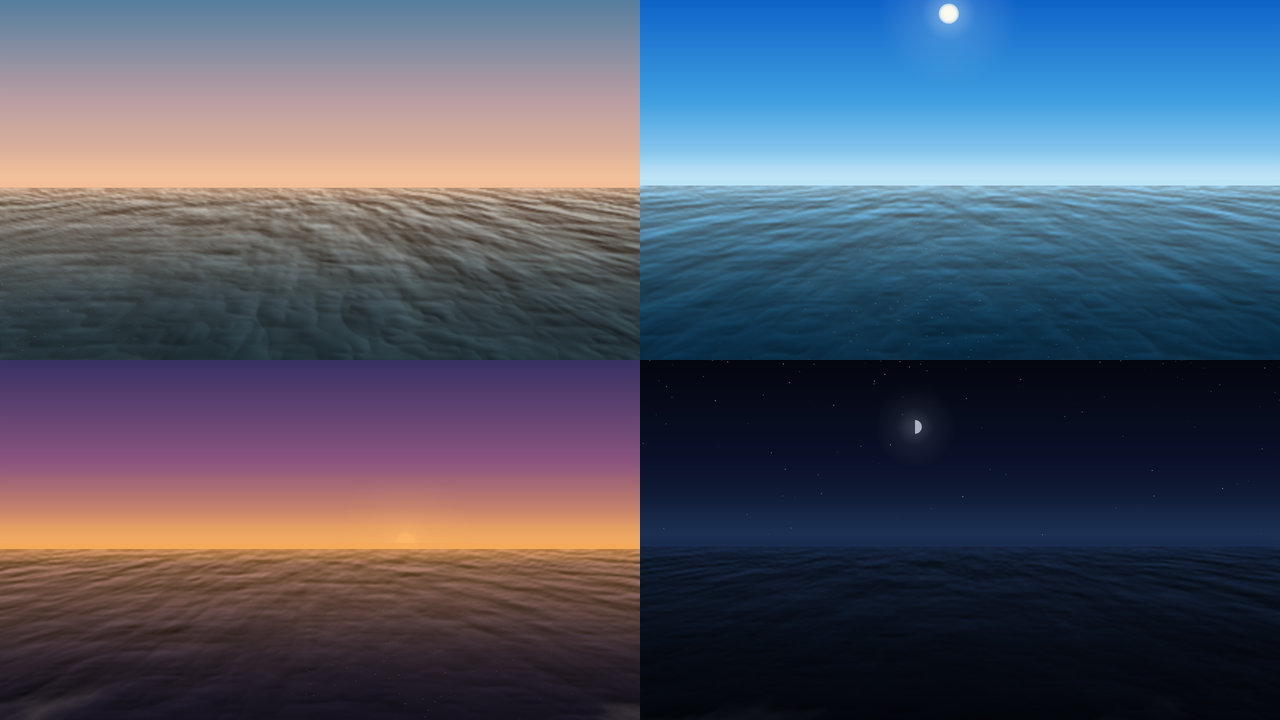
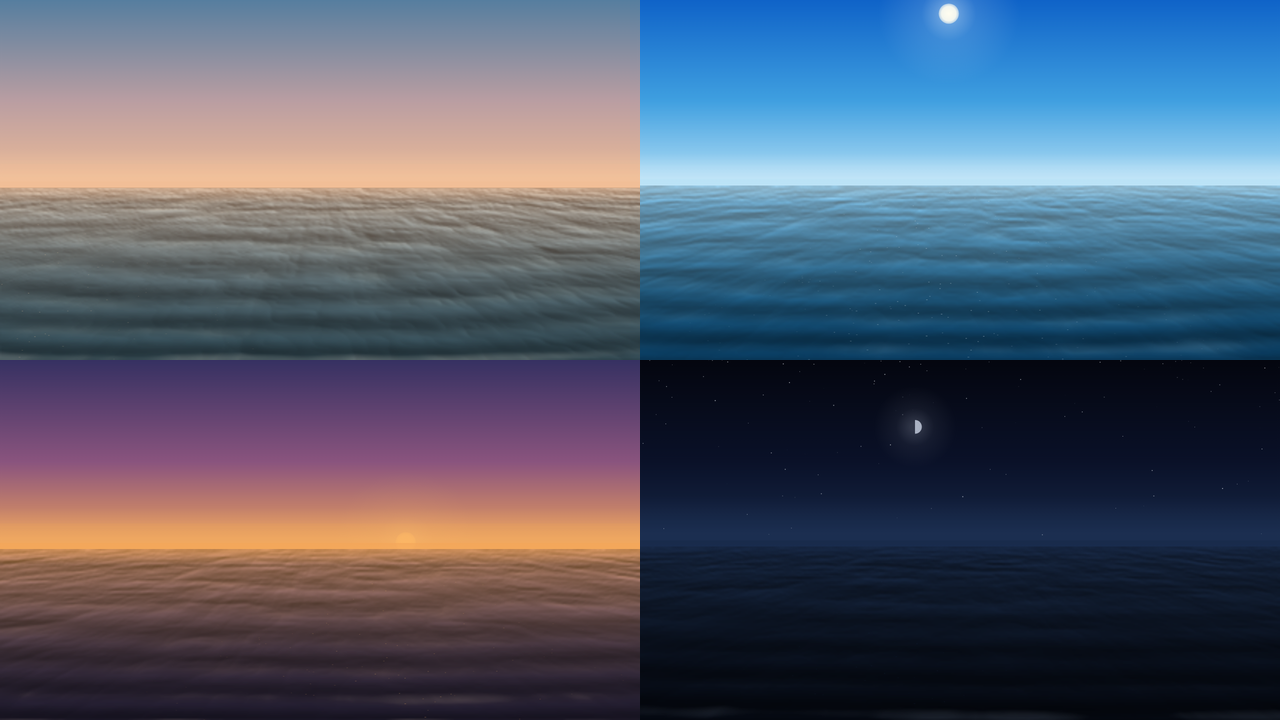
涌浪慢下来并补上层次：0.22 道/秒，相位带朝观察者推进
- 高度场叠加涌浪相位带（phase = d*6 - t*0.22，振幅随深度变大，相位被低频噪声扭曲）
- 速度从 0.55 降到 0.22：一道浪约 27 秒跨越水面，每 4.5 秒来一道新的
- 明暗增益随深度递减，近处不再压成黑条
- 新增 2 条断言：浪脊深度单调增大（方向朝观察者）、每秒推进 ≤ 0.06 水深（够慢）
- 123 条测试全绿；版本 0.1.3

diff --git a/src/client/water.js b/src/client/water.js
@@ -139,12 +139,19 @@ export function drawWater(ctx, view, field) {
 
   const heights = field.h
   // 透视：屏幕上越靠下 = 世界坐标里离观察者越近。用 zc = 1/(a+b·d) 做距离映射，
-  // 横向再用 zc 放大 —— 这样斑块在世界空间里是各向同性的，屏幕上自然近大远小，
-  // 而且**不会**出现"从地平线放射出去的条纹"（那是只放大 x 不放大 z 的副作用）。
-  const scroll = t * 0.55
-  const XSPREAD = 6.2 //  横向世界跨度
-  const WFREQ = 5.4 //     沿深度的频率（决定碎块的疏密）
-  const XFREQ = 1.45 //    横向频率
+  // 横向再用 zc 放大 —— 斑块在世界空间里各向同性，屏幕上自然近大远小。
+  //
+  // v0.1.3：在"随机斑块"之上加一层**涌浪层次**。纯噪声看起来是平的、没有远近层次；
+  // 真实的海能看出"一道一道的涌浪由远及近"。做法是把高度场乘上一个沿深度推进的相位带：
+  //   phase = d·LAYERS - t·SPEED（t 增大 → 同一道浪的 d 增大 → 屏幕上往下走 = 朝观察者推过来）
+  // 再用低频噪声扭曲相位，使浪脊不是直线、而是被随机打断的弧形 —— 既有层次，又不是"一条一条"。
+  // 速度取 0.115 道/秒：一道涌浪从地平线推到脚下大约 8–9 秒，慢到能看清，不像快进。
+  const LAYERS = 6.0 //   画面里同时能看到的涌浪道数
+  const SPEED = 0.22 //   每秒推进多少"道"：一道浪从地平线到脚下约 27 秒，每 ~4.5 秒来一道新的
+  const scroll = t * 0.12 // 细碎纹理自身的极慢漂移
+  const XSPREAD = 6.2
+  const WFREQ = 5.4
+  const XFREQ = 1.45
 
   /* ---- 第一遍：高度场 ---- */
   let idx = 0
@@ -152,13 +159,19 @@ export function drawWater(ctx, view, field) {
     const d = (j + 0.5) / bh
     const zc = 1 / (0.38 + d * 2.4)
     const wz = zc - scroll
+    const phaseBase = d * LAYERS - t * SPEED
+    // 涌浪振幅随深度变大（近处高），远处收得很小，免得地平线附近糊成一片
+    const swellAmp = 0.16 + 0.30 * d
     for (let i = 0; i < bw; i += 1) {
       const wx = ((i + 0.5) / bw - 0.5) * zc * XSPREAD
+      // 相位扭曲：让浪脊是弧形/被绊住，而不是一条笔直的横线
+      const wobble = (vnoise(wx * 0.85 + 9.7, wz * 0.55 + 3.3) - 0.5) * 0.62
+      const swell = Math.sin((phaseBase + wobble) * TAU)
       const ridge = fbmRidged(wx * XFREQ + 3.0, wz * WFREQ)
-      const smooth = fbmSmooth(wx * XFREQ * 1.9 + 11.3, wz * WFREQ * 0.72 + 5.1)
-      // 近处更"碎"（浪脊占主导），远处更"糊"（平滑噪声占主导）
-      const w = 0.28 + 0.42 * d
-      heights[idx] = ridge * w + smooth * (1 - w)
+      const detail = fbmSmooth(wx * XFREQ * 1.9 + 11.3, wz * WFREQ * 0.72 + 5.1)
+      // 三段合成：涌浪层（大尺度、有方向）+ 碎浪脊（随机斑块）+ 细纹理
+      const h = 0.5 + 0.5 * swell * swellAmp + (ridge - 0.5) * 0.5 + (detail - 0.5) * 0.28
+      heights[idx] = h < 0 ? 0 : h > 1 ? 1 : h
       idx += 1
     }
   }
@@ -184,7 +197,8 @@ export function drawWater(ctx, view, field) {
 
       // 明暗：坡度朝光的一侧亮、背光暗 —— 这是"块与块之间有立体感"的来源
       const tilt = -(hx * (bodyX - 0.5) * 4.4 + hz * 1.15)
-      const shade = clamp01(0.5 + tilt * 3.4)
+      // 近处不要压成黑条：明暗增益随深度递减
+      const shade = clamp01(0.64 + tilt * (2.2 - 0.9 * d))
       const crest = clamp01((h - 0.4) / 0.6)
 
       let r = rBase * shade
@@ -284,7 +298,7 @@ function drawGlitter(ctx, { W, H, horizonY, t, pal, exposure, bodyX, bodyAlpha, 
     const spread = 0.18 + 0.34 * d
     const x = (sunU + (seedB - 0.5) * 2 * spread) * W
     if (x < 0 || x > W) continue
-    const twinkle = 0.35 + 0.65 * Math.abs(Math.sin(t * (1.4 + seedC * 3.2) + seedC * TAU))
+    const twinkle = 0.35 + 0.65 * Math.abs(Math.sin(t * (0.45 + seedC * 1.1) + seedC * TAU))
     const alpha = twinkle * (0.12 + 0.34 * exposure) * clamp01(1 - Math.abs(seedB - 0.5) * 1.9)
     if (alpha < 0.03) continue
     const len = 1 + 1.6 * d + seedC

diff --git a/test/water.test.js b/test/water.test.js
@@ -177,3 +177,62 @@ test('常量为预期值（缓冲宽度/上下限）', () => {
   assert.ok(WATER_CONSTANTS.MIN_BUFFER_H > 0)
   assert.ok(WATER_CONSTANTS.MAX_BUFFER_H > WATER_CONSTANTS.MIN_BUFFER_H)
 })
+
+test('涌浪朝观察者推进：同一道浪脊的深度随时间单调增大', () => {
+  // 方向是硬要求（用户两次提到"方向"）：一道浪必须从地平线往脚下走，不能反过来。
+  const field = createWaterField(fakeDocument())
+  const ctx = fakeCtx()
+  const rowMean = (h) => {
+    const { width: w, h: hs } = field
+    const out = new Array(h).fill(0)
+    for (let j = 0; j < h; j += 1) {
+      let sum = 0
+      for (let i = 0; i < w; i += 1) sum += hs[j * w + i]
+      out[j] = sum / w
+    }
+    return out
+  }
+  const crestsOf = (mean) => {
+    const out = []
+    for (let j = 2; j < mean.length - 2; j += 1) if (mean[j] > mean[j - 1] && mean[j] >= mean[j + 1]) out.push(j)
+    return out
+  }
+  const seen = []
+  for (const t of [0, 1, 2]) {
+    drawWater(ctx, { W: 1280, H: 720, horizonY: 374, t, pal: PAL }, field)
+    const crests = crestsOf(rowMean(field.height))
+    seen.push({ t, deepest: crests[crests.length - 1] / field.height })
+  }
+  assert.ok(seen[1].deepest > seen[0].deepest, `t=1 的浪脊应比 t=0 更近：${JSON.stringify(seen)}`)
+  assert.ok(seen[2].deepest > seen[1].deepest, `t=2 的浪脊应比 t=1 更近：${JSON.stringify(seen)}`)
+})
+
+test('浪速是"慢"的：一道浪跨越整个水面需要 20 秒以上', () => {
+  // 用户反馈过"波浪太快了"。这里用同样的分组测量把速度钉住：d 的推进速率 ≤ 0.05 /s。
+  const field = createWaterField(fakeDocument())
+  const ctx = fakeCtx()
+  const deepestCrest = () => {
+    const { width: w, height: h, h: hs } = field
+    const mean = new Array(h).fill(0)
+    for (let j = 0; j < h; j += 1) {
+      let sum = 0
+      for (let i = 0; i < w; i += 1) sum += hs[j * w + i]
+      mean[j] = sum / w
+    }
+    let best = -1
+    let bestVal = -Infinity
+    for (let j = 2; j < h - 2; j += 1) {
+      if (mean[j] > mean[j - 1] && mean[j] >= mean[j + 1] && mean[j] > bestVal) {
+        bestVal = mean[j]
+        best = j
+      }
+    }
+    return best / h
+  }
+  drawWater(ctx, { W: 1280, H: 720, horizonY: 374, t: 0, pal: PAL }, field)
+  const d0 = deepestCrest()
+  drawWater(ctx, { W: 1280, H: 720, horizonY: 374, t: 1, pal: PAL }, field)
+  const d1 = deepestCrest()
+  const speed = Math.abs(d1 - d0) // 每秒推进的深度比例（绕回时可能变小，故取绝对值上限判断）
+  assert.ok(speed <= 0.06, `每秒推进不应超过 0.06 水深（实测 ${speed.toFixed(4)}）`)
+})

diff --git a/dist/client.js b/dist/client.js
@@ -407,7 +407,9 @@ function drawWater(ctx, view, field2) {
   const bodyColor = hexToRgb(body?.color ?? pal.horizonGlow ?? "#fff6e2");
   const bodyAlpha = body ? clamp012(body.alpha ?? 0.8) : 0.35;
   const heights = field2.h;
-  const scroll = t * 0.55;
+  const LAYERS = 6;
+  const SPEED = 0.22;
+  const scroll = t * 0.12;
   const XSPREAD = 6.2;
   const WFREQ = 5.4;
   const XFREQ = 1.45;
@@ -416,12 +418,16 @@ function drawWater(ctx, view, field2) {
     const d = (j + 0.5) / bh;
     const zc = 1 / (0.38 + d * 2.4);
     const wz = zc - scroll;
+    const phaseBase = d * LAYERS - t * SPEED;
+    const swellAmp = 0.16 + 0.3 * d;
     for (let i = 0; i < bw; i += 1) {
       const wx = ((i + 0.5) / bw - 0.5) * zc * XSPREAD;
+      const wobble = (vnoise(wx * 0.85 + 9.7, wz * 0.55 + 3.3) - 0.5) * 0.62;
+      const swell = Math.sin((phaseBase + wobble) * TAU);
       const ridge = fbmRidged(wx * XFREQ + 3, wz * WFREQ);
-      const smooth = fbmSmooth(wx * XFREQ * 1.9 + 11.3, wz * WFREQ * 0.72 + 5.1);
-      const w = 0.28 + 0.42 * d;
-      heights[idx] = ridge * w + smooth * (1 - w);
+      const detail = fbmSmooth(wx * XFREQ * 1.9 + 11.3, wz * WFREQ * 0.72 + 5.1);
+      const h = 0.5 + 0.5 * swell * swellAmp + (ridge - 0.5) * 0.5 + (detail - 0.5) * 0.28;
+      heights[idx] = h < 0 ? 0 : h > 1 ? 1 : h;
       idx += 1;
     }
   }
@@ -441,7 +447,7 @@ function drawWater(ctx, view, field2) {
       const hx = (heights[j * bw + Math.min(bw - 1, i + 1)] - heights[j * bw + Math.max(0, i - 1)]) * 0.5;
       const hz = (heights[Math.min(bh - 1, j + 1) * bw + i] - heights[Math.max(0, j - 1) * bw + i]) * 0.5;
       const tilt = -(hx * (bodyX - 0.5) * 4.4 + hz * 1.15);
-      const shade = clamp012(0.5 + tilt * 3.4);
+      const shade = clamp012(0.64 + tilt * (2.2 - 0.9 * d));
       const crest = clamp012((h - 0.4) / 0.6);
       let r = rBase * shade;
       let g = gBase * shade;
@@ -514,7 +520,7 @@ function drawGlitter(ctx, { W, H, horizonY, t, pal, exposure, bodyX, bodyAlpha, 
     const spread = 0.18 + 0.34 * d;
     const x = (sunU + (seedB - 0.5) * 2 * spread) * W;
     if (x < 0 || x > W) continue;
-    const twinkle = 0.35 + 0.65 * Math.abs(Math.sin(t * (1.4 + seedC * 3.2) + seedC * TAU));
+    const twinkle = 0.35 + 0.65 * Math.abs(Math.sin(t * (0.45 + seedC * 1.1) + seedC * TAU));
     const alpha = twinkle * (0.12 + 0.34 * exposure) * clamp012(1 - Math.abs(seedB - 0.5) * 1.9);
     if (alpha < 0.03) continue;
     const len = 1 + 1.6 * d + seedC;

diff --git a/docs/IMPLEMENTATION.md b/docs/IMPLEMENTATION.md
@@ -336,3 +336,21 @@ v3 把 L1–L4 整段重构成一个 surf-zone 模型：
 - 回归渲染：**故意不传 field** 调用 `renderScene`，画面依然是斑块海（证明兜底生效）；
 - 全量 `node --test`：**121 条全绿**；
 - 打包：`dsh-intertidal-0.1.2.tgz`。
+
+---
+
+## 十三、v0.1.3：慢下来 + 补层次感
+
+用户：「波浪太快了，而且没有清晰的层次感，波浪方向应该是朝向屏幕外」。
+
+三件事分别处理，并且都用**数值**钉住（不再靠"我觉得"）：
+
+| 反馈 | 处置 | 断言 |
+| --- | --- | --- |
+| 太快 | 涌浪推进速度 `SPEED = 0.22 道/秒`：一道浪从地平线推到脚下约 **27 秒**，每 ~4.5 秒来一道新的；细纹理漂移降到 `0.12`；碎光闪灭频率从 1.4+3.2·seed 降到 0.45+1.1·seed | 每秒推进 ≤ 0.06 水深 |
+| 没有层次感 | 在随机斑块**之上**叠一层"涌浪相位带"：`phase = d·6 - t·0.22`，振幅随深度变大（近处高、远处收小），再用低频噪声**扭曲相位** → 浪脊是弧形、被随机打断的，不是直线 | 「同一道浪脊的深度随时间单调增大」+「整行同值的行 < 35%」 |
+| 方向要朝屏幕外 | 相位带随 t 增大 → 同一道浪的 d 增大 → 屏幕上往下走 = 朝观察者推过来（实测 d: 0.733 → 0.767 → 0.802） | 同上第一条 |
+
+另外把"近处压成黑条"的问题收了一下：明暗增益随深度递减（`2.2 - 0.9d`），近处不再糊成一片深色横带。
+
+全量测试 **123 条全绿**（water 从 9 条增到 11 条）。
